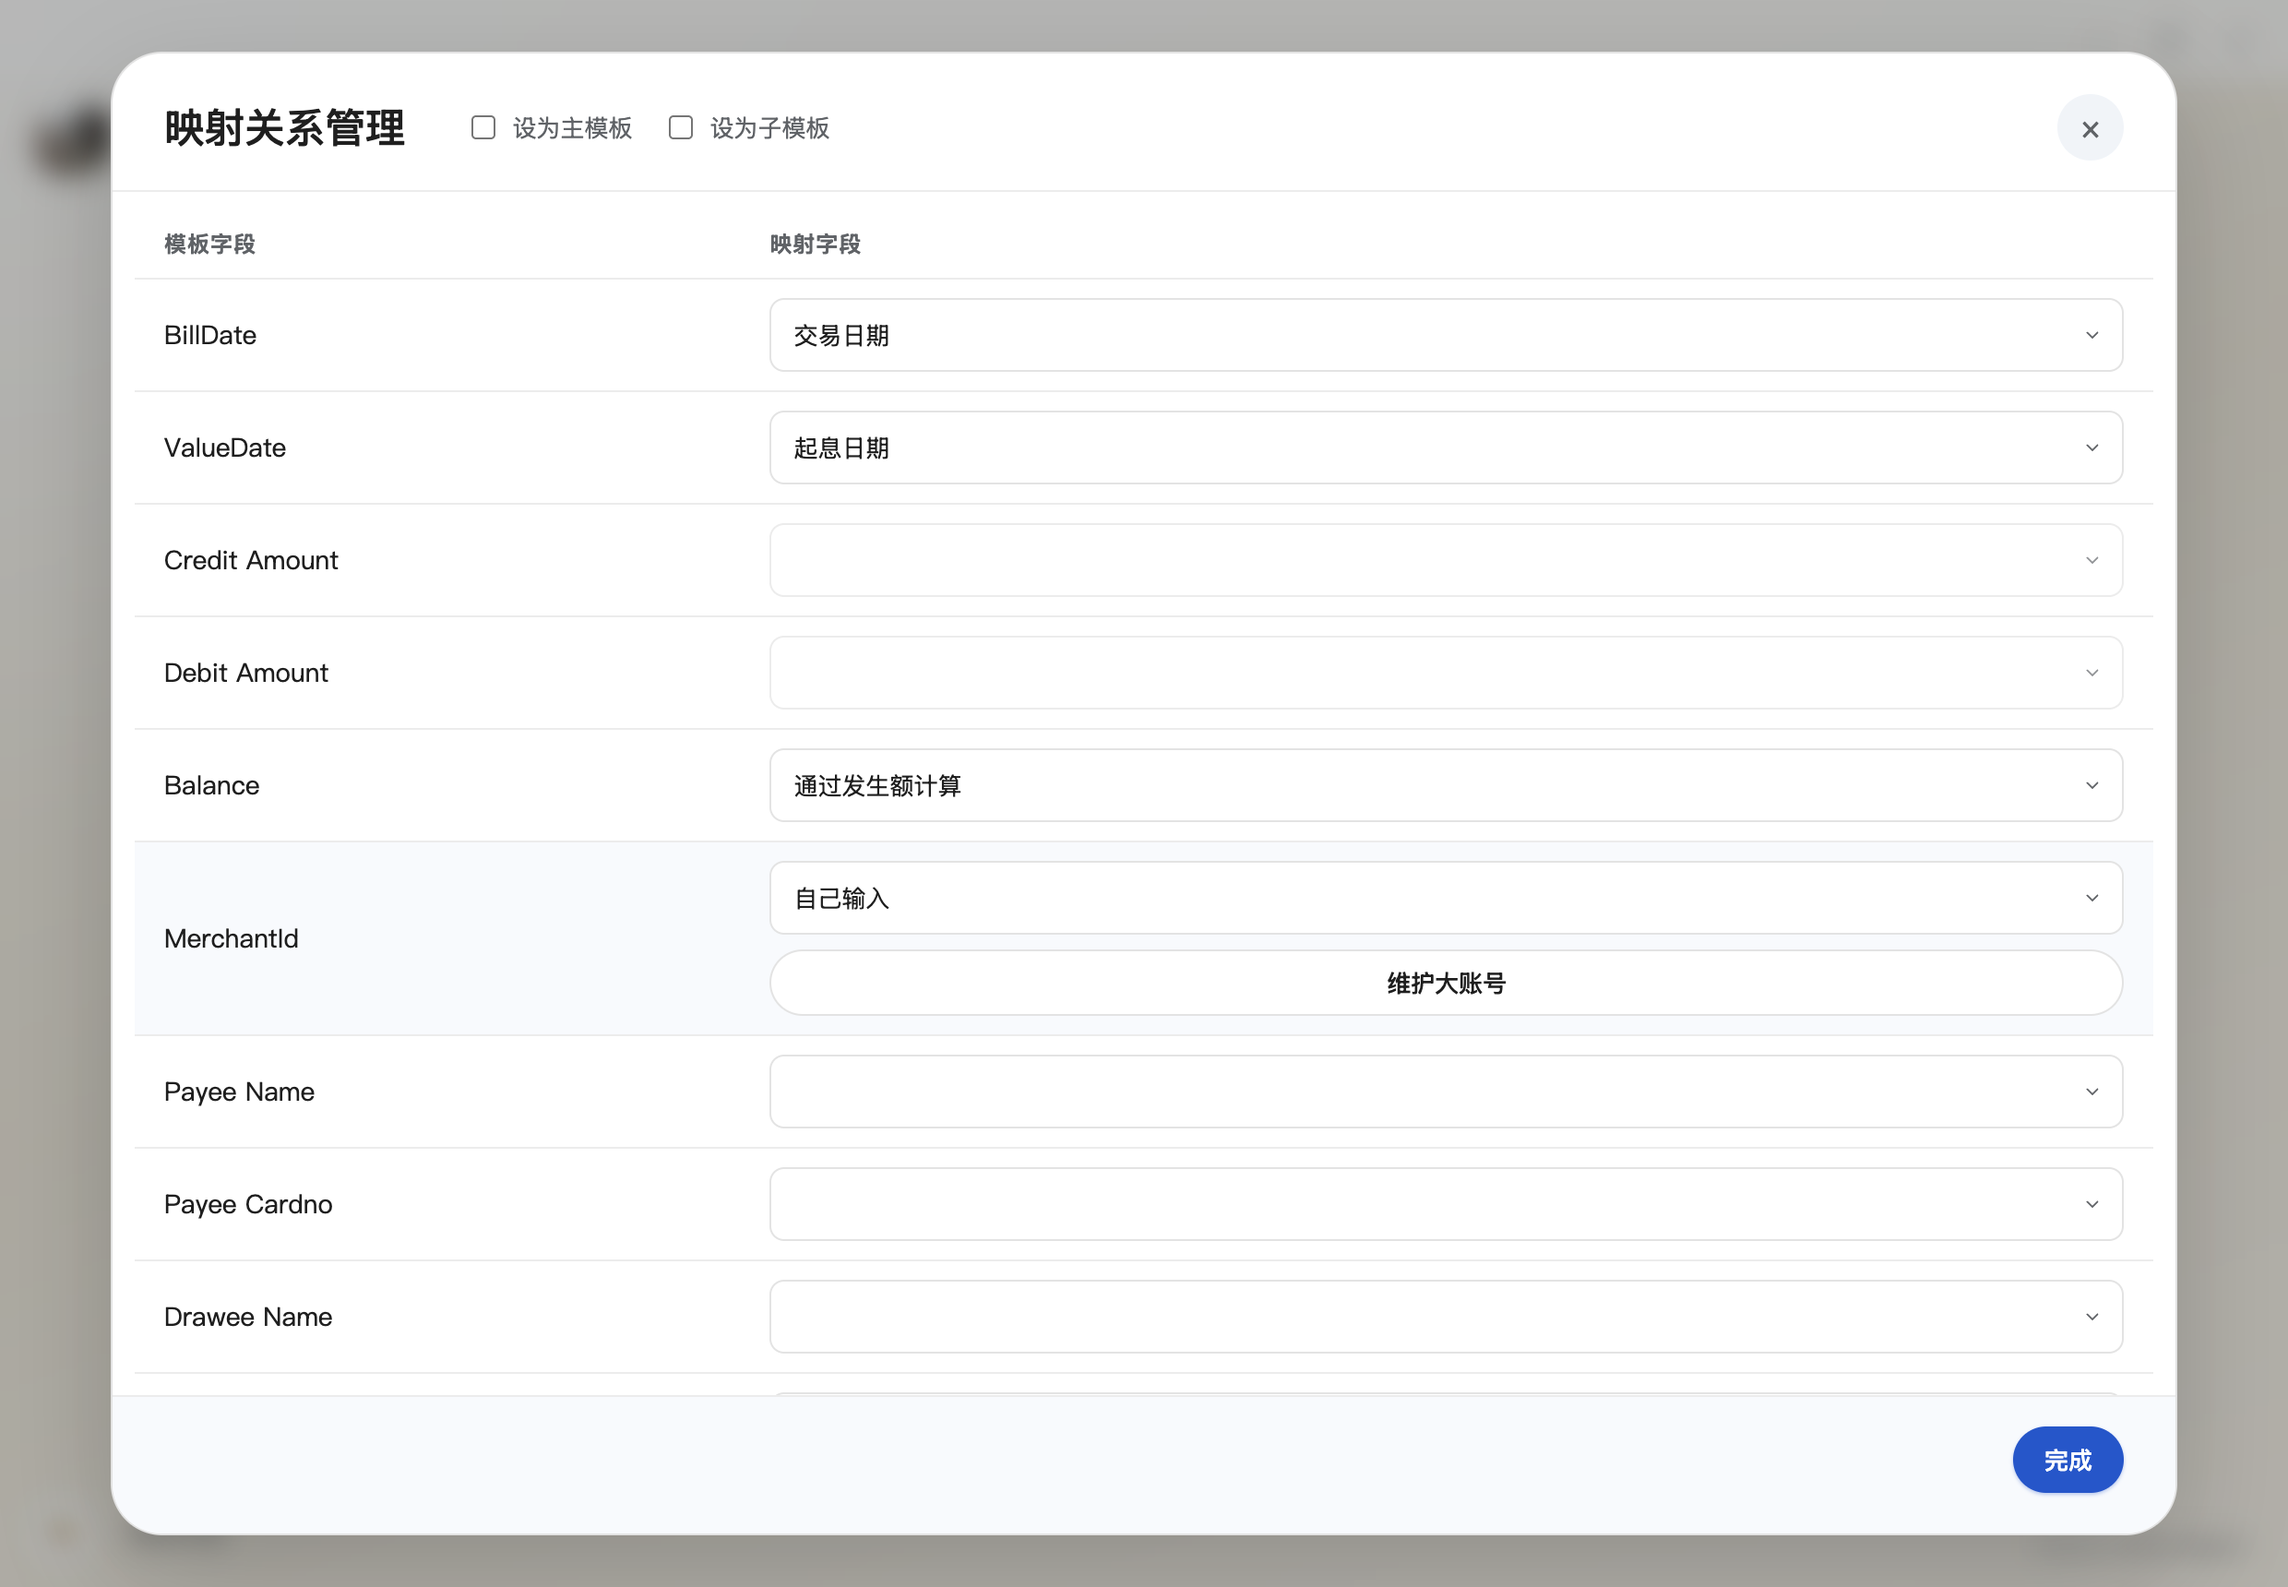
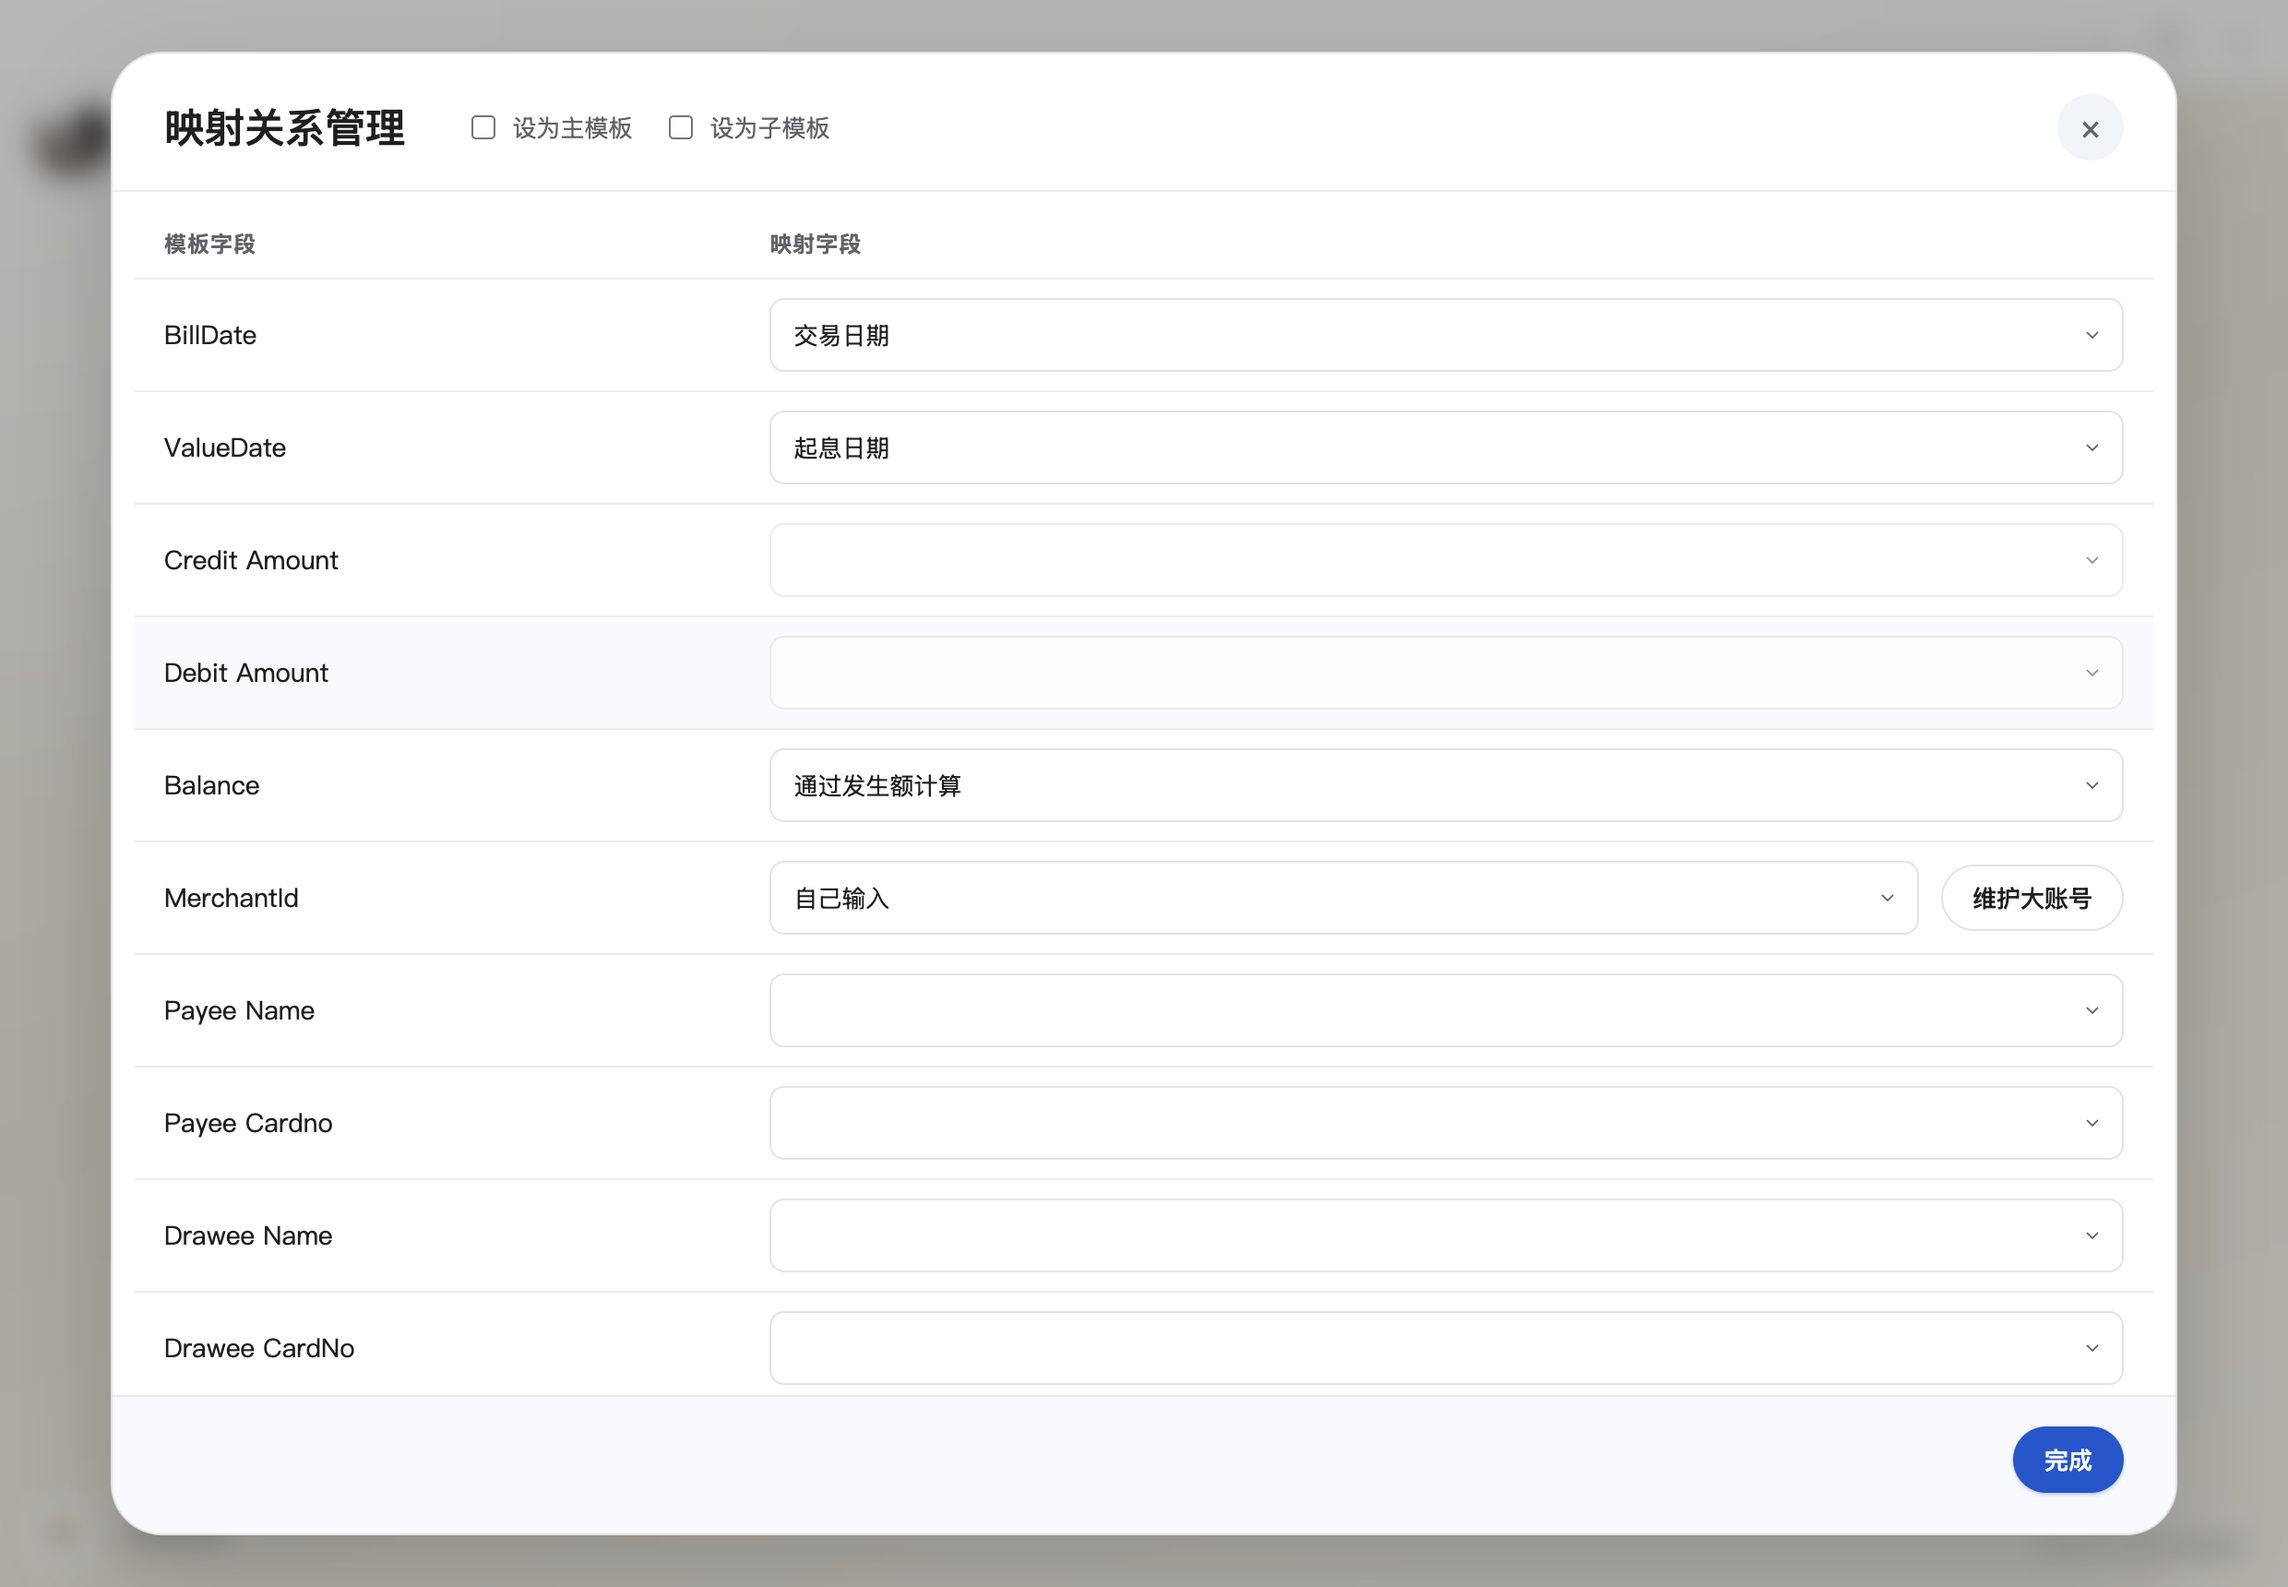
[v2.0.0-beta.2] fix(dialog-clear): mapping-field-editor 改回 flex row（维护大账号按钮在 select 右侧同行，与 General 一致）

diff --git a/src/styles-gemini-extra.css b/src/styles-gemini-extra.css
@@ -511,7 +511,7 @@ tr.migration-empty-row td .mapping-select { border-color: #fbc9c9; }
   font-weight: 500;
 }
 .mapping-field-editor {
-  display: flex; flex-direction: column; gap: 8px;
+  display: flex; align-items: center; gap: 12px;
 }
 .concat-field-picker {
   display: flex; align-items: center; gap: 10px;
